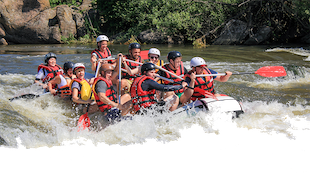
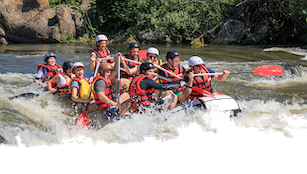
error fixed

diff --git a/wwr/about.html b/wwr/about.html
@@ -14,7 +14,7 @@
 <body>
 
     <header>
-        <img src="images/z-raftingbw.png" alt="logo" width="100">
+        <img src="images/z-raftingbw.png" alt="logo profile" width="100">
         <nav>
             <ul>
                 <li><a href="index.html">Home</a></li>
@@ -27,10 +27,10 @@
 
     <main>
         <div class="hero">
-            <img src="images/hero_transparency_1024.png" alt="backgroung" width="500">
-            <h1>About Us - Exciting Expeditions</h1>
+            <img src="images/hero_transparency_1024.png" alt="backgroung picture" width="500">
+            <h1>About Us - Goka Water Rafting</h1>
              <article>
-                <img src="images/rafting59_600.jpg" alt="clients" width="250">
+                <img src="images/rafting59_600.jpg" alt="clients happy moments" width="250">
                 <p>Here at Goka Water Rafting our purpose is to bring thrill, joy, and unforgettable memories to everyone who loves adventure. Our mission is to provide safe and exciting rafting experiences for all.</p>
              </article>      
         </div>
@@ -44,17 +44,17 @@
     </main>
 
     <footer>
-        <p>&copy; 2026 ® Goka Water Rafting ® Joseph Cudjoe Goka</p>
+        <p>&copy; 2026  Goka Water Rafting  Joseph Cudjoe Goka</p>
         <nav class="socialmedia">
             <a href="https://facebook.com">
-                <img src="images/facebook-bw.svg" alt="profile" width="50">
+                <img src="images/facebook-bw.svg" alt="facebook profile" width="50">
             </a>
             <a href="https://linkedin.com">
-                <img src="images/linkedin.svg" alt="profile" width="50">
+                <img src="images/linkedin.svg" alt="linkedin profile" width="50">
 
             </a>
             <a href="https://instagram.com">
-                <img src="images/instagram-square.svg" alt="profile" width="50">
+                <img src="images/instagram-square.svg" alt="instagram profile" width="50">
             </a>
         </nav>
     </footer>

diff --git a/wwr/styles/rafting.css b/wwr/styles/rafting.css
@@ -2,7 +2,6 @@
     --primary-color: #f2f6f8;
     --secondary-color: #079992;
     --accent1-color: #f6b93b;
-    --accent2-color: #f8f9fa;
     --heading-font: "Bebas Neue",sans-serif;
     --body-font: "Montserrat", sans-serif;
 }
@@ -65,7 +64,7 @@ p,section, article {
     color: white;
 }
 
-.hero article {
+.hero article img {
     position: absolute;
     float: right;
     width: 125px;
